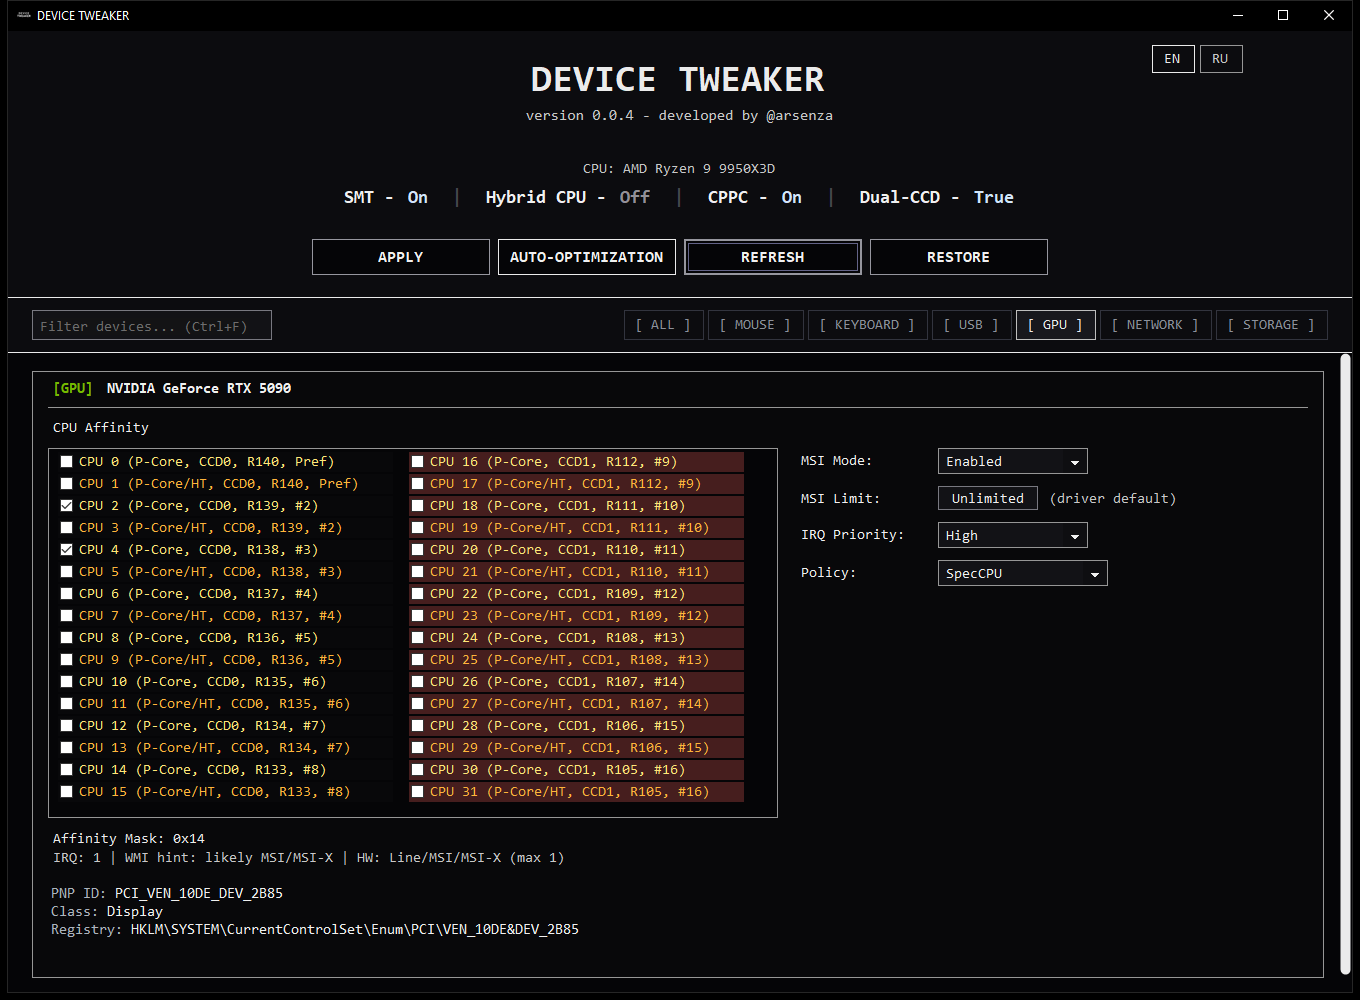
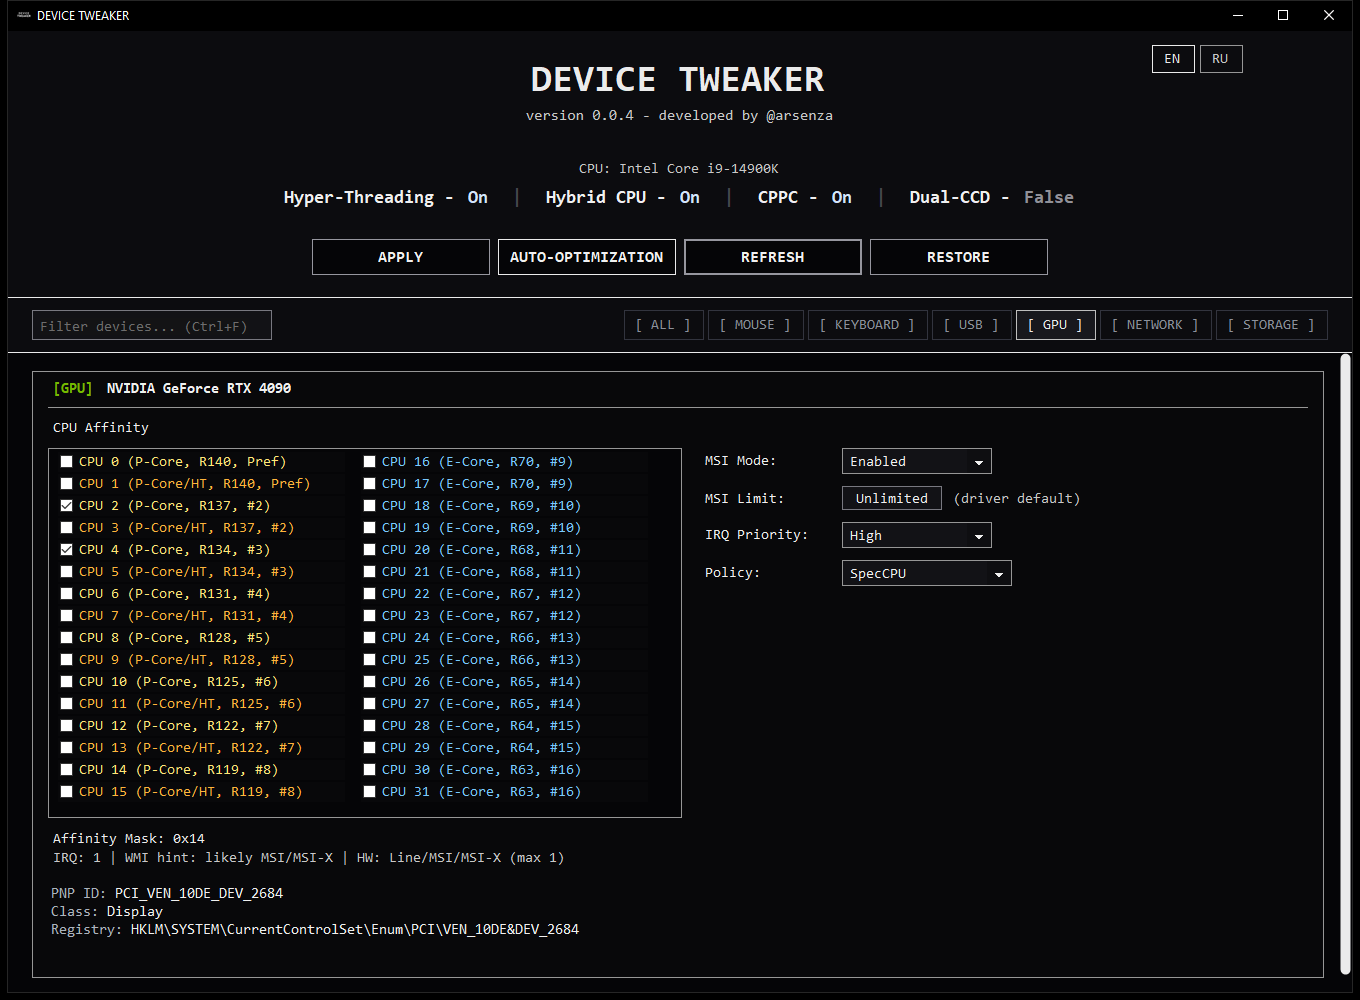
Добавлены скриншоты интерфейса
В галерее показаны IMOD на AMD, GPU на Intel и NIC ITR на AMD. Скрипт захвата раскрывает IMOD на главном снимке Intel.

Changed region(s): [[0.1544, 0.434, 0.8647, 0.806], [0.2162, 0.155, 0.8029, 0.217]]

diff --git a/SCREENSHOTS.md b/SCREENSHOTS.md
@@ -1,0 +1,11 @@
+# Скриншоты DEVICE TWEAKER
+
+[Описание проекта](./README.md) · [English](./SCREENSHOTS.en.md)
+
+На изображениях показаны демонстрационные устройства и тестовые значения IMOD/ITR. Настройки в систему не записывались.
+
+![Раскрытая таблица значений IMOD на AMD Ryzen 9 9950X3D](./assets/screenshots/showcase_amd_imod_full_ru.png)
+
+![NVIDIA GeForce RTX 4090 и выбор процессоров на Intel Core i9-14900K](./assets/screenshots/showcase_gpu_full_ru.png)
+
+![Сетевой адаптер и настройки NIC ITR на AMD Ryzen 9 9950X3D](./assets/screenshots/showcase_nic_full_ru.png)

diff --git a/SCREENSHOTS.en.md b/SCREENSHOTS.en.md
@@ -1,0 +1,11 @@
+# DEVICE TWEAKER screenshots
+
+[Project overview](./README.en.md) · [Русский](./SCREENSHOTS.md)
+
+The images show simulated devices and test IMOD/ITR values. No settings were written to the system.
+
+![Expanded IMOD value table on AMD Ryzen 9 9950X3D](./assets/screenshots/showcase_amd_imod_full_en.png)
+
+![NVIDIA GeForce RTX 4090 interrupt CPU selection on Intel Core i9-14900K](./assets/screenshots/showcase_gpu_full_en.png)
+
+![Network adapter and NIC ITR settings on AMD Ryzen 9 9950X3D](./assets/screenshots/showcase_nic_full_en.png)
